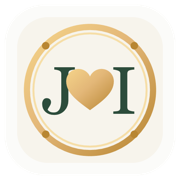
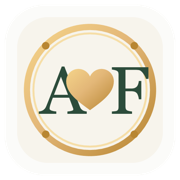
u pdated by nk

Changed region(s): [[0.1944, 0.3611, 0.5, 0.6389], [0.6111, 0.3611, 0.8333, 0.6389], [0.6111, 0.3611, 0.6389, 0.3889]]

diff --git a/src/components/wedding/WeddingInvite.tsx b/src/components/wedding/WeddingInvite.tsx
@@ -7,7 +7,7 @@ import { GoldFireworks } from "@/components/GoldFireworks";
 import { GoldHeart } from "@/components/GoldHeart";
 import { InviteMusic } from "@/components/InviteMusic";
 import bismillah from "@/assets/bismillah.png";
-import couple from "@/assets/couple.jpg";
+import couple from "@/assets/couple.png";
 import leavesBack from "@/assets/leaves-back.png";
 import leavesFront from "@/assets/leaves-front.png";
 import iconCalendar from "@/assets/icon-calendar.png";
@@ -16,8 +16,8 @@ import iconClock from "@/assets/icon-clock.png";
 
 const cushion = [0.22, 1, 0.36, 1] as const;
 
-/** Public Google Maps pin for Akbar Plaza Auditorium, Kodinhi. */
-const VENUE_DIRECTIONS_URL = "https://maps.google.com/?q=11.010084,75.911140";
+/** Public Google Maps pin for Akbar Plaza Auditorium. */
+const VENUE_DIRECTIONS_URL = "https://maps.google.com/?q=11.129738,76.268883";
 
 const rise = {
   hidden: { opacity: 0, y: 34, filter: "blur(6px)" },
@@ -116,15 +116,19 @@ function Hero() {
             transition={{ duration: 7, repeat: Infinity, ease: "easeInOut" }}
           >
             <p className="font-sans text-[0.68rem] uppercase tracking-[0.42em] text-gold-deep">
-              Save the date, celebrate with us
+              Bismillahir Rahmanir Raheem
             </p>
             <div className="gold-rule mx-auto mt-6 h-px w-32" />
-            <h1 className="mt-6 font-script text-5xl leading-tight text-primary sm:text-6xl">
-              Jumna <span className="text-gold-deep">&amp;</span> Irshad
+            <h1 className="mt-6 font-display text-3xl font-light tracking-wide text-primary sm:text-4xl">
+              Mr. Ahammed Kutty <span className="text-gold-deep">&amp;</span> Mrs. Ayisha
             </h1>
+            <p className="mt-3 font-sans text-sm font-light tracking-wide text-muted-foreground">
+              Karumarottu H
+            </p>
             <div className="gold-rule mx-auto mt-7 h-px w-20" />
             <p className="mx-auto mt-7 max-w-md font-display text-lg font-light italic leading-relaxed text-primary/85 sm:text-xl">
-              Cordially invite your presence as we celebrate our wedding
+              Cordially invite your esteemed presence with family on the auspicious occasion of the
+              marriage of our son
             </p>
           </motion.div>
         </motion.div>
@@ -165,11 +169,11 @@ function CoupleSection() {
               <div className="couple-portrait relative z-10 mx-auto aspect-[4/5] w-[88%] sm:w-[84%]">
                 <img
                   src={couple}
-                  alt="Illustration of Jumna and Irshad from their wedding invitation"
+                  alt="Cartoon portrait of Ashmal K and Fathima Shifa in Kerala wedding attire"
                   width={1024}
-                  height={1280}
+                  height={1024}
                   loading="lazy"
-                  className="absolute inset-0 h-full w-full object-cover object-[88%_center] select-none"
+                  className="absolute inset-0 h-full w-full object-cover object-[center_18%] select-none"
                 />
               </div>
 
@@ -192,7 +196,7 @@ function CoupleSection() {
 
         <Reveal delay={0.12} className="mt-14">
           <h2 className="text-gold-3d font-script text-4xl leading-tight sm:text-6xl">
-            Jumna
+            Ashmal K
           </h2>
         </Reveal>
 
@@ -210,8 +214,11 @@ function CoupleSection() {
 
         <Reveal delay={0.28}>
           <h2 className="text-gold-3d font-script text-4xl leading-tight sm:text-6xl">
-            Irshad
+            Fathima Shifa
           </h2>
+          <p className="mt-5 font-sans text-sm font-light tracking-[0.16em] text-muted-foreground">
+            D/o. Abdul Rasheed Faizy &amp; Sajidha, Kurathithodika Juma Maajid
+          </p>
         </Reveal>
       </div>
     </section>
@@ -266,9 +273,9 @@ function EventDetails() {
             whileHover={{ scale: 1.08, rotate: 2 }}
             className="h-28 w-28 object-contain [transform-origin:top_center]"
           />
-          <span className="mt-6 font-display text-6xl font-light text-primary">26</span>
+          <span className="mt-6 font-display text-6xl font-light text-primary">16</span>
           <p className="mt-2 font-sans text-sm tracking-[0.18em] text-muted-foreground">
-            Wednesday, August 2026
+            Wednesday, September 2026
           </p>
         </DetailCard>
 
@@ -287,9 +294,6 @@ function EventDetails() {
           <span className="mt-6 font-display text-3xl font-light text-primary">
             Akbar Plaza Auditorium
           </span>
-          <p className="mt-2 font-sans text-sm tracking-[0.18em] text-muted-foreground">
-            Kodinhi, Farooq Nagar
-          </p>
           <a
             href={VENUE_DIRECTIONS_URL}
             target="_blank"

diff --git a/src/routes/__root.tsx b/src/routes/__root.tsx
@@ -73,17 +73,17 @@ export const Route = createRootRouteWithContext<{ queryClient: QueryClient }>()(
     meta: [
       { charSet: "utf-8" },
       { name: "viewport", content: "width=device-width, initial-scale=1" },
-      { title: "Jumna weds Irshad — 26 Aug 2026" },
+      { title: "Ashmal K weds Fathima Shifa — 16 Sep 2026" },
       {
         name: "description",
         content:
-          "Wedding invitation: Jumna weds Irshad on Wednesday, 26 August 2026, 11:00 AM at Akbar Plaza Auditorium, Kodinhi, Farooq Nagar.",
+          "Wedding invitation: Ashmal K weds Fathima Shifa on Wednesday, 16 September 2026, 11:00 AM at Akbar Plaza Auditorium.",
       },
-      { property: "og:title", content: "Jumna weds Irshad" },
+      { property: "og:title", content: "Ashmal K weds Fathima Shifa" },
       {
         property: "og:description",
         content:
-          "Cordially inviting your presence — 26 August 2026, Akbar Plaza Auditorium, Kodinhi.",
+          "Cordially inviting your esteemed presence — 16 September 2026, Akbar Plaza Auditorium.",
       },
       { property: "og:type", content: "website" },
       { name: "twitter:card", content: "summary_large_image" },

diff --git a/src/routes/index.tsx b/src/routes/index.tsx
@@ -4,17 +4,17 @@ import { WeddingInvite } from "@/components/wedding/WeddingInvite";
 export const Route = createFileRoute("/")({
   head: () => ({
     meta: [
-      { title: "Jumna weds Irshad — 26 Aug 2026" },
+      { title: "Ashmal K weds Fathima Shifa — 16 Sep 2026" },
       {
         name: "description",
         content:
-          "Wedding invitation: Jumna weds Irshad on Wednesday, 26 August 2026, 11:00 AM at Akbar Plaza Auditorium, Kodinhi, Farooq Nagar.",
+          "Wedding invitation: Ashmal K weds Fathima Shifa on Wednesday, 16 September 2026, 11:00 AM at Akbar Plaza Auditorium.",
       },
-      { property: "og:title", content: "Jumna weds Irshad" },
+      { property: "og:title", content: "Ashmal K weds Fathima Shifa" },
       {
         property: "og:description",
         content:
-          "Cordially inviting your presence — 26 August 2026, Akbar Plaza Auditorium, Kodinhi.",
+          "Cordially inviting your esteemed presence — 16 September 2026, Akbar Plaza Auditorium.",
       },
       { property: "og:type", content: "website" },
       { name: "twitter:card", content: "summary_large_image" },

diff --git a/src/components/InviteMusic.tsx b/src/components/InviteMusic.tsx
@@ -205,7 +205,7 @@ export function InviteMusic({ onOpen }: { onOpen?: () => void }) {
                 transition={{ duration: 1.1, ease: cushion, delay: 0.55 }}
                 className="text-gold-3d mt-6 font-script text-5xl leading-tight sm:text-6xl"
               >
-                Jumna &amp; Irshad
+                Ashmal &amp; Shifa
               </motion.h2>
 
               <motion.p
@@ -223,7 +223,7 @@ export function InviteMusic({ onOpen }: { onOpen?: () => void }) {
                 transition={{ duration: 0.8, ease: cushion, delay: 0.82 }}
                 className="mt-3 font-sans text-[0.7rem] tracking-[0.22em] text-muted-foreground"
               >
-                26 August 2026
+                16 September 2026
               </motion.p>
 
               <motion.button
